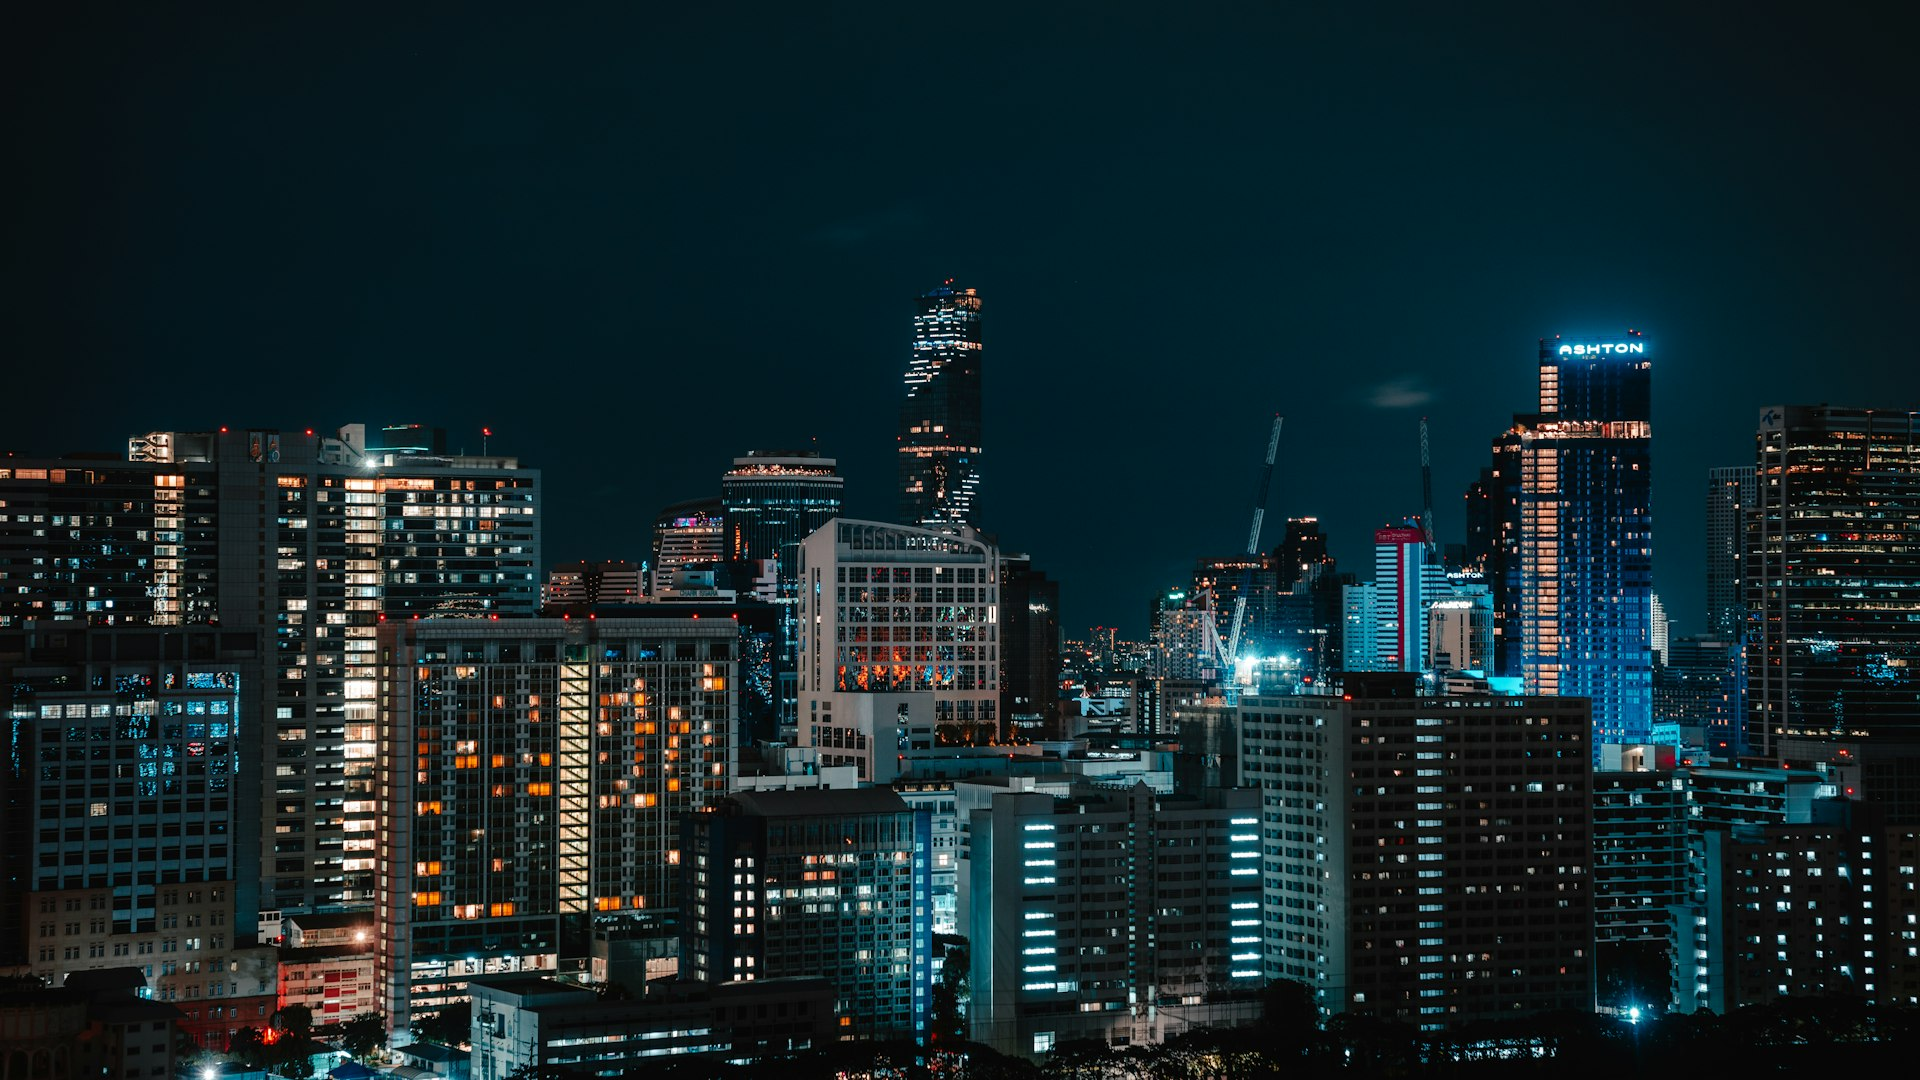
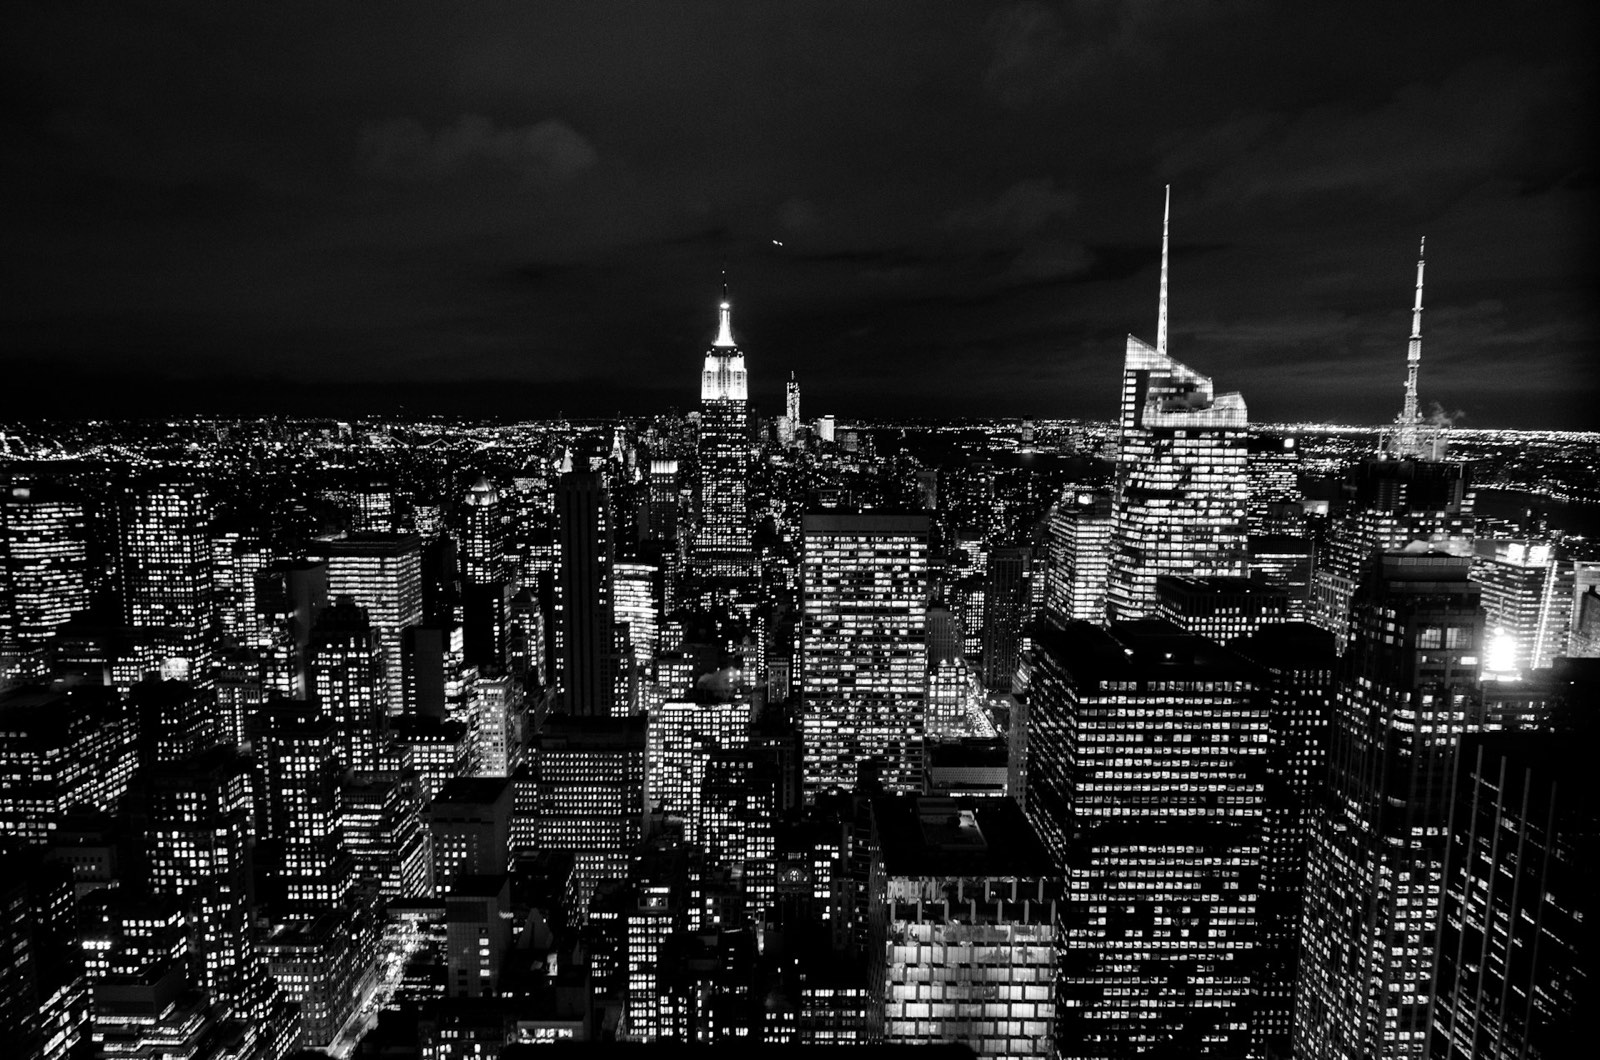
Replace foreign and person-forward secondary imagery
- cta-bg-new.jpg: was Bangkok skyline ("Ashton" tower visible);
  replaced with B&W NYC night skyline (Empire State visible, works
  with white text overlay across all pages using this CTA asset)
- cta-bg-alt1.jpg: was generic office-windows-at-night; replaced
  with aerial Empire State Building at night
- /ar-financing upper side image: swapped from about-team-new.jpg
  (3 men in suits, crossed-arms stock pose) to oldsite-conference.jpg
  (Epoch-branded boardroom)
- /ar-financing lower side image: swapped from ar-section-new.jpg
  (boardroom stock photo with downward chart) to city-skyline-us.jpg
- /healthcare side image: swapped from industry-healthcare.jpg
  (surgical team faces POV) to industry-healthcare-new.jpg
  (US hospital building exterior, already in repo); deleted the
  surgery photo

diff --git a/app/ar-financing/page.jsx b/app/ar-financing/page.jsx
@@ -160,8 +160,8 @@ export default function ARFinancingPage() {
             <FadeUp className="lg:w-[40%] shrink-0 flex" delay={100}>
               <div className="relative w-full h-full rounded-2xl overflow-hidden min-h-[280px]">
                 <img
-                  src="/assets/images/about-team-new.jpg"
-                  alt="Business professional reviewing financial documents"
+                  src="/assets/images/oldsite-conference.jpg"
+                  alt="Institutional conference room with US city skyline view"
                   className="absolute inset-0 w-full h-full object-cover"
                 />
               </div>
@@ -333,8 +333,8 @@ export default function ARFinancingPage() {
             <div className="lg:w-[45%] shrink-0">
               <div className="relative w-full h-full rounded-2xl overflow-hidden" style={{ minHeight: 320 }}>
                 <img
-                  src="/assets/images/ar-section-new.jpg"
-                  alt="EPOCH Financial team"
+                  src="/assets/images/city-skyline-us.jpg"
+                  alt="US city commercial district"
                   className="absolute inset-0 w-full h-full object-cover"
                 />
               </div>

diff --git a/app/healthcare/HealthcarePageClient.jsx b/app/healthcare/HealthcarePageClient.jsx
@@ -431,7 +431,7 @@ export default function HealthcarePageClient() {
             <FadeUp delay={100} className="lg:w-[45%] shrink-0">
               <div className="relative h-full min-h-[380px] lg:min-h-[460px] rounded-2xl overflow-hidden">
                 <img
-                  src="/assets/images/industry-healthcare.jpg"
+                  src="/assets/images/industry-healthcare-new.jpg"
                   alt="Healthcare credit facilities"
                   className="absolute inset-0 w-full h-full object-cover"
                 />